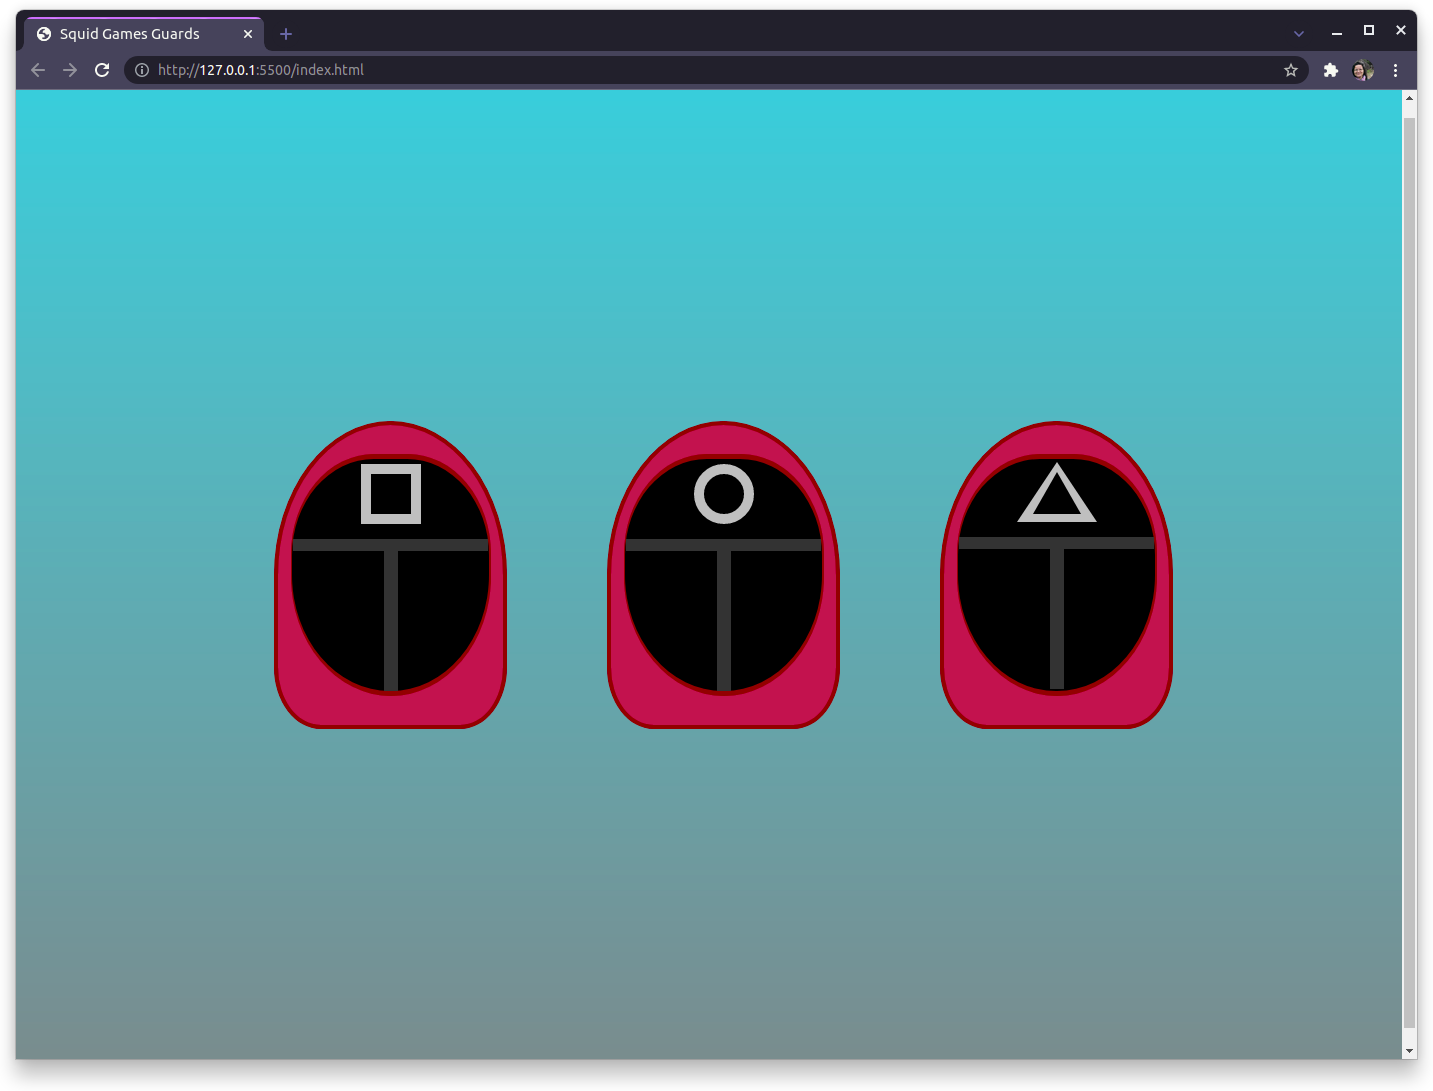
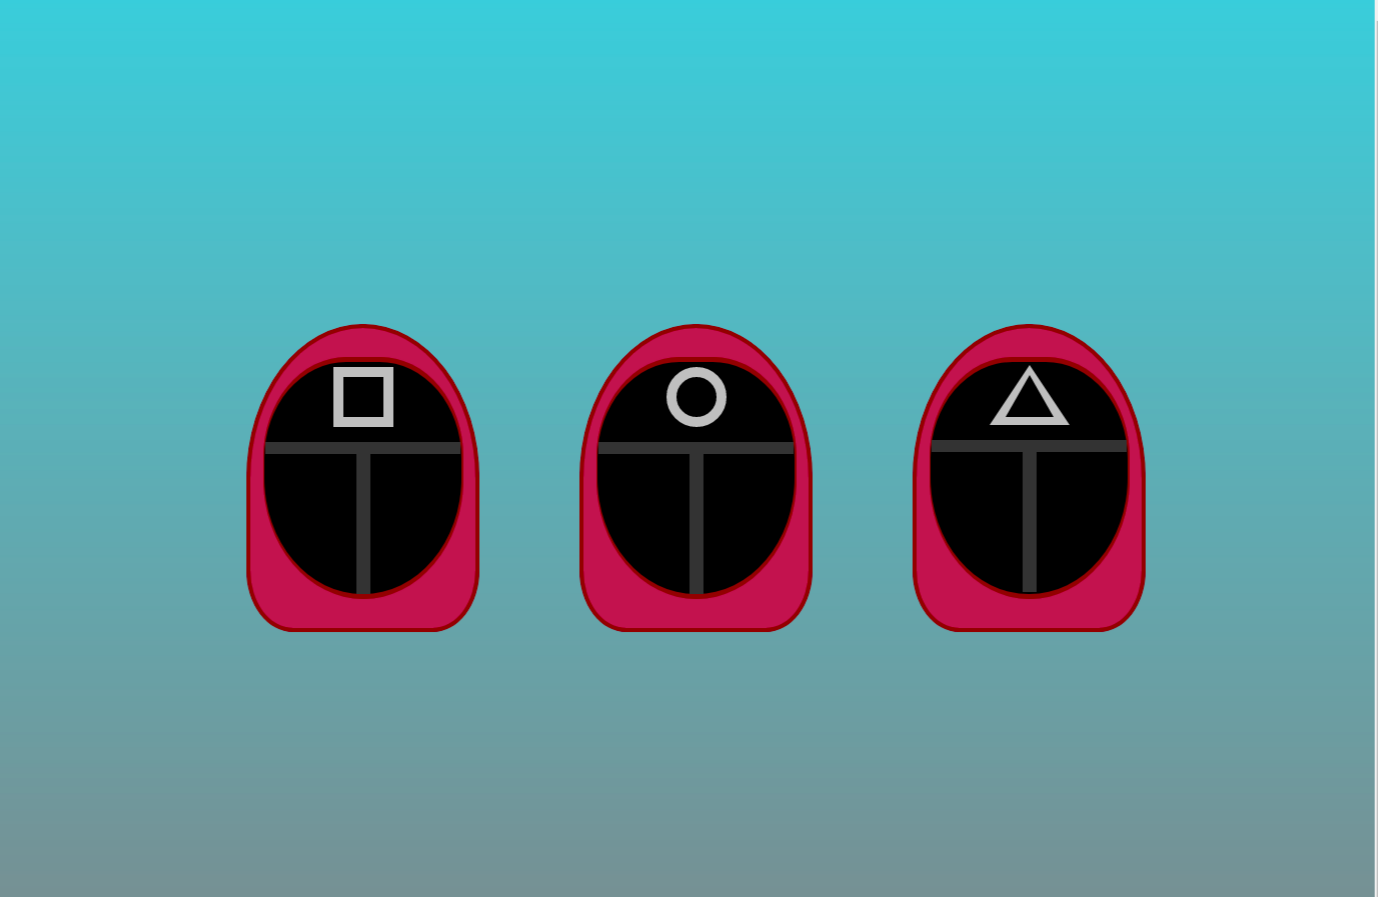
adiciona readme com imagem do desenho final

diff --git a/squidGames/readme.md b/squidGames/readme.md
@@ -1,3 +1,5 @@
+![ ](/squidGames/squadGamesGuards.png)
+
 Exercicio de posicionamento e estilizaçao de elementos, com o fim de criar os tres tipos de guardas de Squad Games usando apenas CSS puro.
 
 Status: **FINALIZADO**

diff --git a/batman/readme.md b/batman/readme.md
@@ -1,0 +1,6 @@
+![ ](/batman/logo-batman.png)
+
+Desenho com  HTML e CSS puro.
+
+Status: **FINALIZADO**
+

diff --git a/Emojis/readme.md b/Emojis/readme.md
@@ -1,0 +1,6 @@
+![ ](/Emojis/Emojis.png)
+
+Desenho com  HTML e CSS puro.
+
+Status: **FINALIZADO**
+

diff --git a/cat/readme.md b/cat/readme.md
@@ -1,0 +1,5 @@
+![ ](/cat/BlackCat.png)
+
+Desenho com  HTML e CSS puro.
+
+Status: **FINALIZADO**
